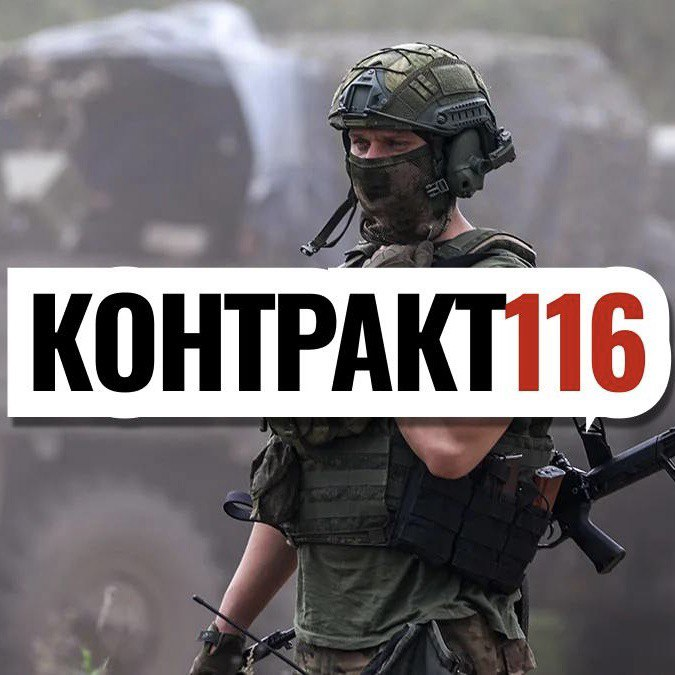
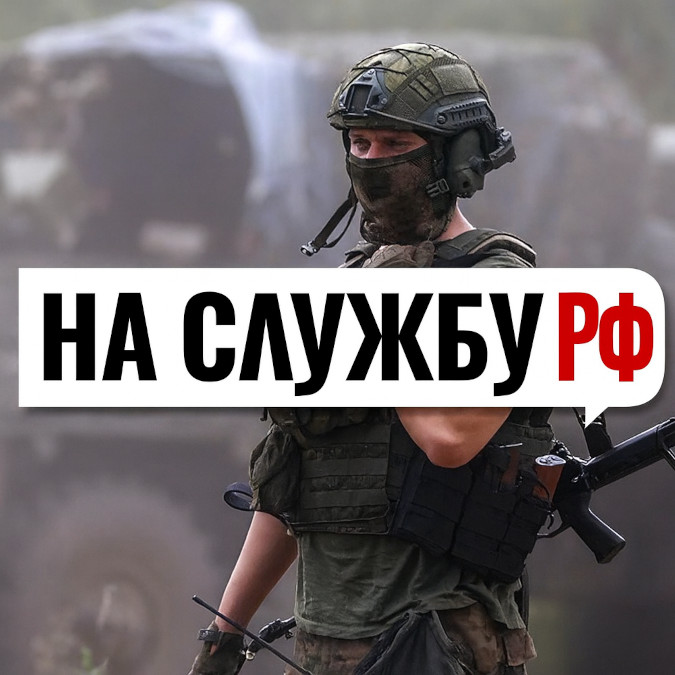
Обновил описание и картинки

diff --git a/index.html b/index.html
@@ -7,12 +7,11 @@
   <title>
    Служба по контракту на СВО — выплаты от 3 млн ₽ от Сахалинской области
   </title>
-  <meta content="Заключить контракт на СВО от Сахалинской области: выплаты от 3 100 000 ₽, жильё, статус ветерана и ежемесячное довольствие от 210 000 ₽. " name="description"/>
+  <meta content="Заключить контракт на СВО от Сахалинской области: выплаты от 2 550 000 ₽, жильё, статус ветерана и ежемесячное довольствие от 220 000 ₽. " name="description"/>
   <meta content="./" property="og:url"/>
   <meta content="Служба по контракту на СВО — выплаты от 3 млн ₽ от Сахалинской области" property="og:title"/>
-  <meta content="Заключить контракт на СВО от Сахалинской области: выплаты от 3 100 000 ₽, жильё, статус ветерана и ежемесячное довольствие от 210 000 ₽. " property="og:description"/>
+  <meta content="Заключить контракт на СВО от Сахалинской области: выплаты от 2 550 000 ₽, жильё, статус ветерана и ежемесячное довольствие от 220 000 ₽. " property="og:description"/>
   <meta content="website" property="og:type"/>
-  <meta content="./assets/img/Group_37_1.jpg" property="og:image"/>
   <link href="./" rel="canonical"/>
   <!--/metatextblock-->
   <meta content="telephone=no" name="format-detection"/>
@@ -32,9 +31,9 @@
       <div class="tmenu-mobile__burgerlogo">
        <a href="./">
         <div class="tmenu-mobile__burgerlogo__title t-title" field="title">
-         КОНТРАКТ
+         НАШАСЛУЖБА
          <span style="color: rgb(255, 0, 0);">
-          116
+          РФ
          </span>
         </div>
        </a>
@@ -59,9 +58,9 @@
        <div class="t228__leftcontainer">
         <a class="t228__imgwrapper" href="./">
          <div class="t228__logo t-title" field="title">
-          КОНТРАКТ
+          НАШАСЛУЖБА
           <span style="color: rgb(255, 0, 0);">
-           116
+           РФ
           </span>
          </div>
         </a>
@@ -374,7 +373,7 @@
       </div>
       <div class="t396__elem tn-elem tn-elem__11677507011740729280201" data-elem-id="1740729280201" data-elem-type="text" data-field-axisx-value="left" data-field-axisy-value="top" data-field-container-res-320-value="grid" data-field-container-value="grid" data-field-height-res-320-value="20" data-field-height-value="20" data-field-heightunits-value="px" data-field-left-res-320-value="30" data-field-left-res-640-value="350" data-field-left-res-960-value="275" data-field-left-value="90" data-field-leftunits-value="px" data-field-textfit-value="autoheight" data-field-top-res-320-value="444" data-field-top-res-640-value="460" data-field-top-res-960-value="391" data-field-top-value="438" data-field-topunits-value="px" data-field-width-res-320-value="260" data-field-width-res-960-value="200" data-field-width-value="210" data-field-widthmode-value="fixed" data-field-widthunits-value="px" data-fields="top,left,width,height,container,axisx,axisy,widthunits,leftunits,topunits" style="top: 438px; left: 90px; width: 210px; height: auto; zoom: 1.538;">
        <div class="tn-atom" field="tn_text_1740729280201" style="transform-origin: center center; line-height: 20px;">
-        от 3 100 000
+        от 2 550 000
         <strong>
          ₽
         </strong>
@@ -545,7 +544,7 @@
       </div>
       <div class="t396__elem tn-elem tn-elem__11676216061751999068080" data-elem-id="1751999068080" data-elem-type="text" data-field-axisx-value="left" data-field-axisy-value="top" data-field-container-res-320-value="grid" data-field-container-res-640-value="grid" data-field-container-value="grid" data-field-height-res-320-value="20" data-field-height-value="20" data-field-heightunits-res-320-value="px" data-field-heightunits-value="px" data-field-left-res-320-value="30" data-field-left-res-640-value="255" data-field-left-res-960-value="720" data-field-left-value="919" data-field-leftunits-value="px" data-field-textfit-res-320-value="autoheight" data-field-textfit-value="autoheight" data-field-top-res-320-value="440" data-field-top-res-640-value="545" data-field-top-res-960-value="113" data-field-top-value="126" data-field-topunits-value="px" data-field-width-res-320-value="163" data-field-width-res-640-value="300" data-field-width-res-960-value="150" data-field-width-value="161" data-field-widthmode-res-640-value="fixed" data-field-widthmode-res-960-value="fixed" data-field-widthunits-value="px" data-fields="top,left,width,height,container,axisx,axisy,widthunits,leftunits,topunits" style="top: 126px; left: 919px; width: 161px; height: auto; zoom: 1.538;">
        <h3 class="tn-atom" field="tn_text_1751999068080" style="transform-origin: center center; line-height: 20px;">
-        от 210 000 ₽
+        от 220 000 ₽
        </h3>
       </div>
       <div class="t396__elem tn-elem tn-elem__11676216061751999064792" data-elem-id="1751999064792" data-elem-type="shape" data-field-axisx-value="left" data-field-axisy-value="top" data-field-container-res-320-value="grid" data-field-container-res-640-value="grid" data-field-container-res-960-value="grid" data-field-container-value="grid" data-field-height-res-320-value="150" data-field-height-res-640-value="190" data-field-height-res-960-value="150" data-field-height-value="140" data-field-heightmode-res-320-value="fixed" data-field-heightmode-res-960-value="fixed" data-field-heightmode-value="fixed" data-field-heightunits-value="px" data-field-left-res-320-value="10" data-field-left-res-640-value="65" data-field-left-res-960-value="345" data-field-left-value="426" data-field-leftunits-value="px" data-field-top-res-320-value="260" data-field-top-res-640-value="320" data-field-top-res-960-value="90" data-field-top-value="100" data-field-topunits-value="px" data-field-width-res-320-value="300" data-field-width-res-640-value="510" data-field-width-res-960-value="270" data-field-width-value="350" data-field-widthunits-value="px" data-fields="width,height,top,left,container,axisx,axisy,widthunits,heightunits,leftunits,topunits" style="width: 350px; left: 426px; top: 100px; height: 140px; zoom: 1.538;">
@@ -1514,13 +1513,13 @@
             </strong>
             , а также ежемесячное довольствие от
             <strong>
-             210.000 ₽
+             220.000 ₽
             </strong>
             и
             <strong>
               дополнительные премии
             </strong>
-            за достижения. Сравнительная таблица выплат по регионам России и вся дополнительная информация о выплатах и мерах социальной поддержки в Татарстане —
+            за достижения. Сравнительная таблица выплат по регионам России и вся дополнительная информация о выплатах и мерах социальной поддержки в Сахалиснкой области
             <a href="./vyplaty.html" rel="noreferrer noopener" style="color: rgb(255, 0, 0); border-bottom: 2px solid rgb(255, 0, 0); box-shadow: none; text-decoration: none;" target="_blank">
              здесь
             </a>
@@ -1720,10 +1719,10 @@
         </div>
         <div class="t404__textwrapper">
          <div class="t404__title t-heading t-heading_xs" style="height: 128px;">
-          Выплаты контрактникам в 2025 году — условия, суммы, бонусы | нашаслужба.рф
+          Выплаты контрактникам в 2025 году — условия, суммы, бонусы
          </div>
          <div class="t404__descr t-descr t-descr_xs" style="height: 124px;">
-          Узнайте, какие выплаты получают контрактники в Республике Татарстан в 2025 году. Подробности о суммах, бонусах, региональных доплатах и социальных льготах участникам СВО.
+          Узнайте, какие выплаты получают контрактники Сахалинской области в 2025 году. Подробности о суммах, бонусах, региональных доплатах и социальных льготах участникам СВО.
          </div>
         </div>
        </a>
@@ -1738,7 +1737,7 @@
         </div>
         <div class="t404__textwrapper">
          <div class="t404__title t-heading t-heading_xs" style="height: 128px;">
-          Как попасть на службу по контракту в зону СВО — инструкция 2025 | нашаслужба.рф
+          Как попасть на службу по контракту в зону СВО — инструкция 2025
          </div>
          <div class="t404__descr t-descr t-descr_xs" style="height: 124px;">
           Узнайте, как попасть на службу по контракту в зону СВО. Пошаговая инструкция: от заявки до отправки в часть. Без срочной службы, из любого региона.
@@ -1756,7 +1755,7 @@
         </div>
         <div class="t404__textwrapper">
          <div class="t404__title t-heading t-heading_xs" style="height: 128px;">
-          Льготы и социальные гарантии для контрактников в зоне СВО | нашаслужба.рф
+          Льготы и социальные гарантии для контрактников в зоне СВО
          </div>
          <div class="t404__descr t-descr t-descr_xs" style="height: 124px;">
           Социальные льготы и гарантии участникам СВО: статус ветерана боевых действий, списание долгов до 10 млн ₽, бесплатное лечение, отпуск, жильё, НИС и другие меры поддержки контрактников в 2025 году.
@@ -1850,7 +1849,7 @@
           <div class="t-input-group t-input-group_cb" data-default-value="y" data-field-name="Checkbox" data-field-type="cb" data-input-lid="1739351233908" style="padding-right: 10px;">
            <div class="t-input-block">
             <label class="t-checkbox__control t-checkbox__control_flex" style="font-size: 10px; font-weight: 400; color: rgb(34, 34, 34); font-family: Zekton;">
-             <input class="t-checkbox js-tilda-rule" data-tilda-req="1" name="Checkbox" type="checkbox" value="yes"/>
+             <input checked class="t-checkbox js-tilda-rule" data-tilda-req="1" name="Checkbox" type="checkbox" value="yes"/>
              <div class="t-checkbox__indicator" style="border-color: rgb(34, 34, 34);">
              </div>
              <span class="t-checkbox__labeltext">

diff --git a/assets/css/main.css b/assets/css/main.css
@@ -1916,6 +1916,31 @@ sub { line-height: 0; font-size: smaller; vertical-align: sub; }
 
 #rec1167621701 .t390__descr { font-family: TildaSans; }
 
+#rec1167621701 .t-popup {
+  padding-top: 40px;
+  padding-bottom: 40px;
+}
+
+#rec1167621701 .t-popup__container {
+  position: relative;
+  top: 0;
+  left: auto;
+  right: auto;
+  margin: 0 auto;
+  transform: none;
+}
+
+#rec1167621701 .t-popup_show .t-popup__container {
+  transform: none;
+}
+
+@media screen and (max-width: 640px) {
+  #rec1167621701 .t-popup {
+    padding-top: 20px;
+    padding-bottom: 20px;
+  }
+}
+
 @charset "utf-8";
 
 .t-rec#rec1167621666 { overflow: visible; }
